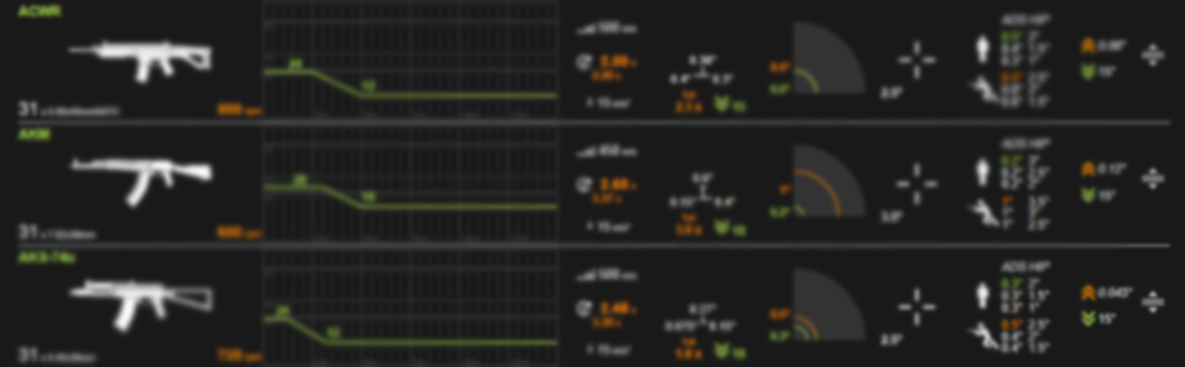
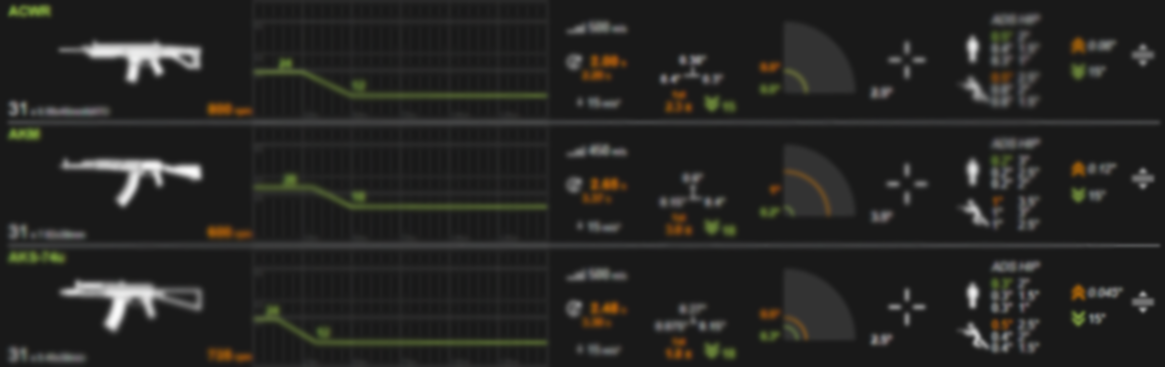
Adjusted old news posts, added new news post, tweaked front page text, updated 2042 weapon page text

diff --git a/webpage/pages/bf2042/bf2042_dataWeapon.html b/webpage/pages/bf2042/bf2042_dataWeapon.html
@@ -31,6 +31,10 @@
 					<td>First Shot Multiplier</td>
 				</tr>
 				<tr>
+					<td>FSSM</td>
+					<td>First Shot Spread Multiplier</td>
+				</tr>
+				<tr>
 					<td>HRec</td>
 					<td>Horizontal Recoil</td>
 				</tr>
@@ -119,16 +123,48 @@
 			<p>\[
 				\text{spread}_n \; = \; \text{spread}_{n-1} - \frac{1}{\text{simrate}} \cdot (\text{coef} \cdot (\text{spread}_{n-1} - \text{minspread})^\text{exp} + \text{offset})
 			\]</p>
-			<p><i>Note: "n" designates the current frame, of which current spread is calculated, simrate = Battlefield 2042's logic loop, most likely 45hz </i></p>
-			<p>This new system for spread decrease results in a spread curve that is vaguely logarithmic, with diminishing spread penalties for further sustained fire.  ADS (zoomed) spread uses uniform distribution over radius, which features an inner bias. Hipfire uses a uniform distribution over the area meaning that shots are distributed evenly throughout the area of the spread cone.</p>
+			<p><i>Note: "n" designates the current frame, of which current spread is calculated, simrate = Battlefield 2042's logic loop of 45hz</i></p>
+			<p>This new system for spread decrease results in a spread curve that is vaguely logarithmic, with diminishing spread penalties for further sustained fire. ADS (zoomed) spread uses uniform distribution over radius, which features an inner bias. Hipfire uses a uniform distribution over the area meaning that shots are distributed evenly throughout the area of the spread cone.</p>
 		
 		<div class="bfv-sym-info-subheader">Idle Spread Decrease</div>
-			<p>Idle spread decrease is linear (coefficient = 0.0, effectively rendering an exponent of 0.0, leading to no spread decrease acceleration) on all weapons but buckshot shotguns. This is a separate decrease rate that activates after a certain number of frames are surpassed following a shot being fired, and very rapidly decreases spread. Idle spread decrease is only in consideration for transitions in movement or firing state (ADS/zoomed to hipfire/unzoomed), or very slowly pacing/tapfiring shots.</p>
-			<p>The spread decrease offset effectively sets the number of degrees of spread decreased per frame. The idle time dictates the number of frames after a shot is figured that must be surpassed before the idle spread decrease rates are used. Idle spread decrease is effectively fast enough to bring spread down to the designated minimum angle in a single frame in the vast majority of cases.</p>
+			<p>In <i>Battlefield 2042,</i> idle spread decrease is non-linear due to spread decrease offset values of zero.	
+			The spread decrease offset effectively sets the number of degrees of spread decreased per frame, where the idle time dictates the number of frames after a shot is figured that must be surpassed before the idle spread decrease rates are used. 
+			Idle spread decrease is only in consideration for transitions in movement or firing state (ADS/zoomed to hipfire/unzoomed), or very slowly pacing/tapfiring shots.
+			</p>
+			<p> 
+			Compared to <i>Battlefield V,</i> spread decrease will not scale as aggressively thanks to having an exponent of 1 and an offset of 0. 
+			Instead, it is largely dependent on a given weapon's coefficient value.
+			</p>
 		<div class="bfv-sym-info-subheader">Vertical and Horizontal Recoil</div>
-			<p>As with all <i>Battlefield</i> games since <i>Battlefield 4</i>, vertical recoil is a fixed (non-randomized) value. While vertical recoil can accelerate, the increases and decreases are at discrete, known intervals. Horizontal recoil works as it always had in previous games, consisting of a number line (e.g. -0.3 to 0.3), where a randomly generated value is produced, with a uniform distribution.</p>
+			<p>As with all <i>Battlefield</i> games since <i>Battlefield 4</i>, vertical recoil is a fixed (non-randomized) value. 
+			While vertical recoil can accelerate, the increases and decreases are at discrete, known intervals. 
+			Horizontal recoil works as it always had in previous games, consisting of a number line (e.g. -0.3 to 0.3), where a randomly generated value is produced, with a uniform distribution.
+			</p>
 		<div class="bfv-sym-info-subheader">Initial Recoil Multipliers</div>	
-			<p><i>Battlefield 2042</i> has introduced an additional recoil system, to be called Initial Recoil Multipliers (IRM). IRM, when present, provides a set of numbers to be applied, in order, to an amount of rounds fired from a weapon equal to the amount of multipliers provided. IRM can be applied to both HRec and VRec separately. For example, if IRM gave the VRec multipliers of [1.8, 1.5, 1.3, 1.1, 1.0], and the HRec multipliers of [1.2, 1.2, 1.0, 1.1, 1.2], the first five bullets for this theoretical weapon would all have unique recoil compared to one another, and to the base stats of the weapon. Also note the fifth value of the IRM's HRec, 1.2. Because the IRM ends on a multiplier besides 1.0, this 1.2 modifier will persist on every subsequent shot after the fifth shot. It should lastly be stated that not all weapons have IRM. Those that do have IRM may differ in IRM severity and duration compared to other weapons, and may not have values for both VRec and HRec .
+			<p><i>Battlefield 2042</i> has introduced an additional recoil system, to be called Initial Recoil Multipliers (IRM). 
+			IRM, when present, provides a set of multipliers to be applied, in order, to an amount of rounds fired from a weapon equal to the amount of multipliers provided. 
+			IRM can be applied to both HRec and VRec separately. 
+			</p>
+			<hr style="width:50%;text-align:center">
+			<p><i>For example, say IRM provides a weapon, with recoil values of 0.5 up, 0.15 left, and 0.2 right, the multipliers of:</i></p>
+			<pre style="display:inline">VRec = [1.8, 1.5, 1.3, 1.1, 1.0]</pre>
+			<br>
+			<pre style="display:inline">HRec = [1.2, 1.2, 0.8, 0.8, 1.1]</pre>
+			<br>
+			<p><i>The resulting recoil for the first five shots of this weapon would be:</i></p>
+			<pre style="display:inline">Up:&nbsp; &nbsp; 0.90, 0.75, 0.65, 0.55, 0.5</pre>
+			<br>
+			<pre style="display:inline">Left:&nbsp; 0.18, 0.18, 0.12, 0.12, 0.165</pre>
+			<br>
+			<pre style="display:inline">Right: 0.24, 0.24, 0.16, 0.16, 0.22</pre>
+			<br>
+			<br>
+			<i>Not only is each of these five shots unique to one another, but all are different compared to the base values of the weapon.</i>
+			<hr style="width:50%;text-align:center">
+			<p>It should be stated that not all weapons have IRM. 
+			Those that do have IRM may differ in IRM severity and duration compared to other weapons. 
+			Even within the same weapon, IRM may not have the same amount of values (or values at all) for both VRec and HRec.
+			</p>
 		<div class="bfv-sym-info-subheader">Recoil Decrease</div>
 			<p>Recoil decrease works as it does since <i>Battlefield 1</i>, persisting even when the gun is not idle, and decelerates as time passes.</p> 
 	</div>

diff --git a/webpage/pages/misc/news_items/1.html b/webpage/pages/misc/news_items/1.html
@@ -1,6 +1,6 @@
 <div class="sym-news-entry">
 	<h1>
-		We're back!
+		<i>We're back!</i>
 		<span class="sym-news-entry-date">November 2, 2019</span>	
 	</h1>
 	<img src="./img/NewsImages/1.png" style="width:900px"></img>
@@ -8,7 +8,7 @@
 	<div class="sym-news-entry-content">
 		<p>It’s been almost a year, but Symthic is back with a fancy new domain.  What you will find is a more refined symthic.com, hosting the same data straight from the game files as we have always done.  Please take a look around the site, and if you have any questions or feedback, let us know via the Sym Discord.</p>
 		<p>So, what is next for sym.gg?  Although we have launched with <i>Battlefield V</i> (and a light offering of <i>Battlefield 1</i>), refinement of the <i>Battlefield</i> pages will be an ongoing process, due to both user feedback and <i>Battlefield V</i>’s own Tides of War progression which will be adding new items to the game for the near future.  Expect to see previous other <i>Battlefield</i> titles reappear on the site over time as well. To provide feedback or comments, use our Discord.</p>
-		<p>Outside of <i>Battlefield,</i> we are currently working on data for <i>Apex Legends,</i> a popular battle royale set in the <i>Titanfall</i> universe.  Additionally, thanks to a poll that many individuals completed, we know that current interests for Sym going forward lie in the <i>Call of Duty, Rainbow Six, SW:Battlefront,</i> and <i>Titanfall</i> franchises.  However, time and experience are limiting factors, and we cannot accomplish everything we would like to in a brief period of time.  Therefore, we are happy to announce that sym.gg will become an open-source endeavor, so if you or anyone you know has experience extracting data from these franchises, and would also be willing to help add these titles to sym.gg, please get in contact with us!</p>	
+		<p>Outside of <i>Battlefield,</i> we are currently working on or looking  data for other titles and franchises.  However, time and experience are limiting factors, and we cannot accomplish everything we would like to in a brief period of time.  Therefore, we are happy to announce that sym.gg will become an open-source endeavor, so if you or anyone you know has experience working with popular FPS games and would also be willing to help add these titles to sym.gg, please get in contact with us!</p>	
 		<p>Lastly, before wrapping this up, I want to personally thank both Miffyli and Robenter for their amazing work toward getting sym.gg up and running. Bringing back Sym could not have been possible without their time and effort, which they generously donated from their own free time.  Seriously, thank you for all of your effort, expertise, and dedication throughout the last three months of development.</p>
 		<p>That said, on behalf of all the site’s staff, we hope you enjoy the new sym.gg!</p>
 		<p>- Incarnate</p>

diff --git a/webpage/pages/misc/news_items/6.html b/webpage/pages/misc/news_items/6.html
@@ -1,0 +1,27 @@
+<div class="sym-news-entry">
+	<h1>
+		<i>New look for Sym.gg, new Battlefield to cover!</i>
+		<span class="sym-news-entry-date">January 18, 2022</span>
+	</h1>
+	<img src="./img/NewsImages/6.png" style="width:900px"></img>
+	<br></br>
+	<div class="sym-news-entry-content">
+		<p>To bring in the new year and a new <i>Battlefield</i> game, we first wanted to touch up the site to make navigation easier than before, while also accommodating both <i>Battlefield 2042</i> and additional future titles. 
+		Basic site information is still available between the headers and the footers, however the new hamburger button will allow navigation to any game and any of its pages. 
+		We hope this change will make moving around the site much quicker and cleaner. 
+		</p>
+		<p>Now then, after much anticipation, <i>Battlefield 2042</i> weapon data is now live.  
+		As is tradition, the weapon charts will display basic information, while the comparison page will get into the nitty-gritty, including the variety of attachments that <i>Battlefield 2042</i> has brought to the table compared to previous <i>Battlefield</i> games. 
+		Support will continue on the <i>Battlefield 2042</i> pages so long as EA DICE continues to the support the game itself, so expect future content added and tweaks made over time.
+		</p>
+		<p>With the majority of the work related to <i>Battlefield 2042</i> behind us, the team here at sym.gg will be undertaking a new project that we hope to share very soon with everyone. 
+		To provide feedback on the site, or to stay up-to-date with our next endeavor, join the <a href="https://discordapp.com/invite/Z9vcu46" target="_blank">Sym Discord.</a> 
+		Following our <a href="https://twitter.com/symthic" target="_blank">Twitter</a> is another great way to stay in the loop.
+		</p>
+		<p>A huge amount of appreciation and thanks must be given to both <a href="https://twitter.com/robenter/" target="_blank">Robenter</a> and <a href="https://github.com/Miffyli" target="_blank">Miffyli</a> for setting aside much of their limited free time to improving the site and adding the latest <i>Battlefield</i> to its pages. 
+		This could not have been done without either of their efforts. Also an additional special shoutout to <b>txt</b>, a new face whose knowledge and willingness to help cannot be understated.
+		</p>
+		<p>Happy new year everyone, and until next time,</p>
+		<p>- Incarnate</p>
+	</div>
+</div>

diff --git a/webpage/index.html b/webpage/index.html
@@ -153,9 +153,10 @@
     <div class="sym-main-content">
         <div class="sym-main-content-home" style="display: none;">
 			<div class="sym-home-motto">
-				<span>THE MOST ACCURATE DATA FOR YOUR FAVORITE GAMES</span><br>
 				<img src="./img/SymFlaskBottom.png">
-            </div>
+				<br><br>
+				<span>THE MOST ACCURATE DATA FOR THE MOST POPULAR GAMES</span><br>
+			</div>
 			<br>
             
             <!--
@@ -233,9 +234,9 @@
             <div class="sym-main-desc">
                 <div class="sym-main-desc-text-block">
                     <div class="sym-main-desc-whatsThat">SYM..? WHAT'S THAT?</div>
-                    <div>Sym.gg <i>(formerly Symthic)</i> is the premier website for you to find statistical data for the most popular games, extracted straight from the gamefiles themselves.</div>
+                    <div>Sym.gg <i>(formerly Symthic)</i> is the premier website for you to find the most accurate data for your favorite games.</div>
 					<div>Consisting of a community that love being gaming scientists, typical discussion consists of saying things like, "up to 12.5 meters, that weapon will kill in 4 shots" as opposed to "yeah that gun feels good - nahh that one doesn't."</div>
-					<div>We strive to examine every single aspect of a game to see exactly what it does, so that you can overcome it.</div>
+					<div>We strive to understand every single aspect of a game so that you can play your best.</div>
                     <a class="sym-main-desc-learnMore-btn">LEARN MORE</a>
                 </div>
                 <div>
@@ -247,7 +248,7 @@
 
             <div class="sym-demize">
                 <div class="sym-demize-quote">"LET ME INTRODUCE YOU TO MY FRIEND SYMTHIC..."</div>
-                <div class="sym-demize-name">- DEMIZE99, CORE GAMEPLAY DESIGNER, DICE</div>
+                <div class="sym-demize-name">- DEMIZE99, FORMER CORE GAMEPLAY DESIGNER, DICE</div>
             </div>
 
             <div class="sym-separator"></div>

diff --git a/webpage/pages/misc/news_items/3.html b/webpage/pages/misc/news_items/3.html
@@ -1,15 +1,13 @@
 <div class="sym-news-entry">
 	<h1>
-		Battlefield 3 Pages Return!
+		<i>Battlefield 3 Pages Return!</i>
 		<span class="sym-news-entry-date">May 17, 2020</span>
 	</h1>
 	<img src="./img/NewsImages/3.png" style="width:900px"></img>
 	<br></br>
 	<div class="sym-news-entry-content">
 		<p>Working our way through the classic <i>Battlefield</i> titles on the Frostbite engine, <i>Battlefield 3</i> is the next legacy title to see its weapon charts and comparison page return to Sym. 
-		For those interested, all the <i>Battlefield 3</i> pages can be found under the <a href="https://sym.gg/?game=other%26page=index" target="_blank">"Other Titles"</a> page. 
-		Current intentions with this page have it being where all older titles will find their homes. 
-		As other backlogged titles are completed, or as current titles fall out of popular interest, they will added or moved to the "Other Titles" page.</p>
+		As other backlogged titles are completed, they will added to the site.</p>
 		<p>Like always, thanks to <a href="https://twitter.com/robenter/" target="_blank">Robenter</a> for creating the weapon charts, and also to <a href="https://github.com/Miffyli" target="_blank">Miffyli</a> for creating the comparison page and tangling with the attachment modifiers.
 		Expect to see further legacy titles returning in the near future.</p>
 		<p>Until next time,</p>

diff --git a/webpage/pages/misc/news_items/4.html b/webpage/pages/misc/news_items/4.html
@@ -1,14 +1,13 @@
 <div class="sym-news-entry">
 	<h1>
-		Battlefield 4 Pages Return!
+		<i>Battlefield 4 Pages Return!</i>
 		<span class="sym-news-entry-date">June 12, 2020</span>
 	</h1>
 	<img src="./img/NewsImages/4.png" style="width:900px"></img>
 	<br></br>
 	<div class="sym-news-entry-content">
 		<p>Up next in the list of classic <i>Battlefield</i> titles, <i>Battlefield 4</i> returns with weapon charts, weapon comparison, and a weapon mechanics page. 
-		<i>Battlefield 3</i> and <i>Battlefield 1</i> have also retroactively been given their own weapon mechanics pages.
-		Like the <i>Battlefield 3</i> pages, the new <i>Battlefield 4</i> pages can be found under the <a href="https://sym.gg/?game=other%26page=index" target="_blank">"Other Titles"</a> category.</p>
+		<i>Battlefield 3</i> and <i>Battlefield 1</i> have also retroactively been given their own weapon mechanics pages.</p>
 		<p>Thanks to <a href="https://twitter.com/robenter/" target="_blank">Robenter</a> for creating the weapon charts, and also to <a href="https://github.com/Miffyli" target="_blank">Miffyli</a> for getting the BF4 data up to speed.
 		Expect to see another addition to Sym.gg soon!</p>
 		<p>Until next time,</p>

diff --git a/webpage/pages/misc/news_items/2.html b/webpage/pages/misc/news_items/2.html
@@ -1,13 +1,12 @@
 <div class="sym-news-entry">
 	<h1>
-		Battlefield 1 Weapon Charts Return!
+		<i>Battlefield 1 Weapon Charts Return!</i>
 		<span class="sym-news-entry-date">March 20, 2020</span>	
 	</h1>
 	<img src="./img/NewsImages/2.png" style="width:900px"></img>
 	<br></br>
 	<div class="sym-news-entry-content">
 		<p>One of the most popular requests now fulfilled, <i>Battlefield 1</i>'s weapon charts have made their glorious return to the web. 
-		For those interested, they can be found on <a href="https://sym.gg/index.html?game=bf1%26page=charts" target="_blank">this page.</a> 
 		A big thanks to Robenter who put in the effort to make these charts happen, so if you seem him around, be sure to show him some love.</p>
 		<p>With <i>Battlefield 1</i> formally up on sym.gg, our focus will be turned to additional previous DICE titles such as <i>Battlefield 4</i> and <i>Battlefield 3.</i> 
 		That said, another common request we hear is the desire to cover weapon data for Call of Duty: Modern Warfare. 

diff --git a/webpage/sym.js b/webpage/sym.js
@@ -7,8 +7,8 @@ const SYM_GITHUB_URL = 'https://github.com/miffyli/sym'
 // Number of news items available, stored under
 // misc/news_items/#.html . This value should be updated
 // when new entries for News are made
-const SYM_NUM_NEWS_ITEMS = 5
-const NUM_NEWS_ITEMS_SHOWN = 5
+const SYM_NUM_NEWS_ITEMS = 6
+const NUM_NEWS_ITEMS_SHOWN = 6
 
 /*
     This code runs after the page loads all resources.

diff --git a/webpage/pages/misc/news_items/5.html b/webpage/pages/misc/news_items/5.html
@@ -1,6 +1,6 @@
 <div class="sym-news-entry">
 	<h1>
-		Battlefield Hardline Pages Return!
+		<i>Battlefield Hardline Pages Return!</i>
 		<span class="sym-news-entry-date">October 21, 2021</span>
 	</h1>
 	<img src="./img/NewsImages/5.png" style="width:900px"></img>
